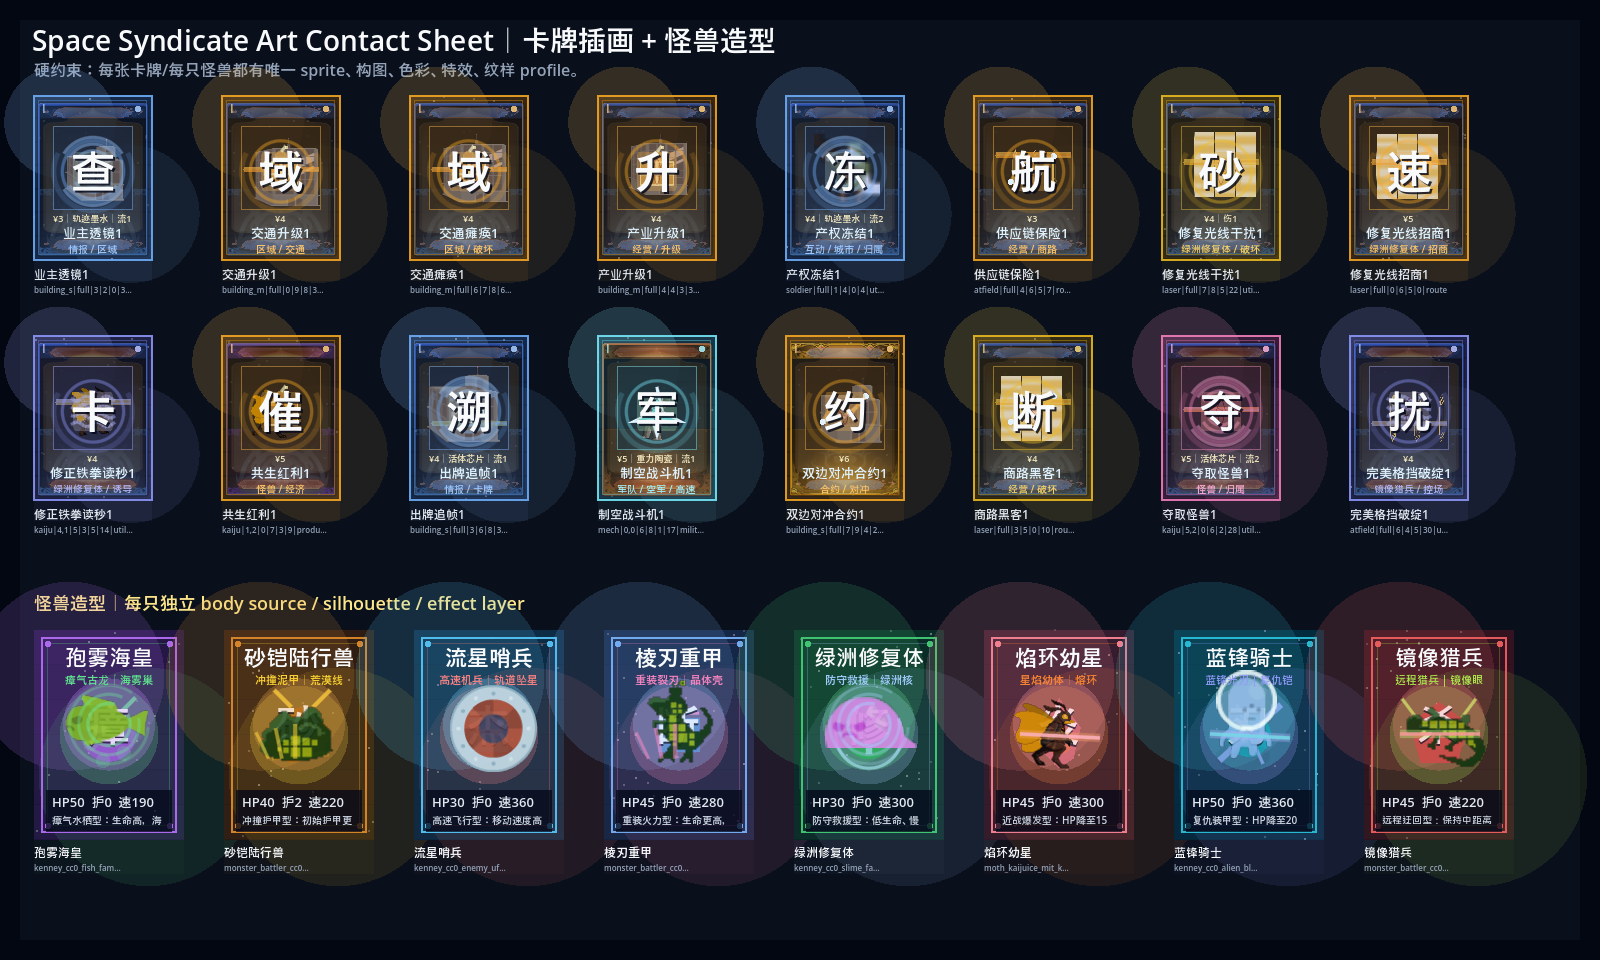
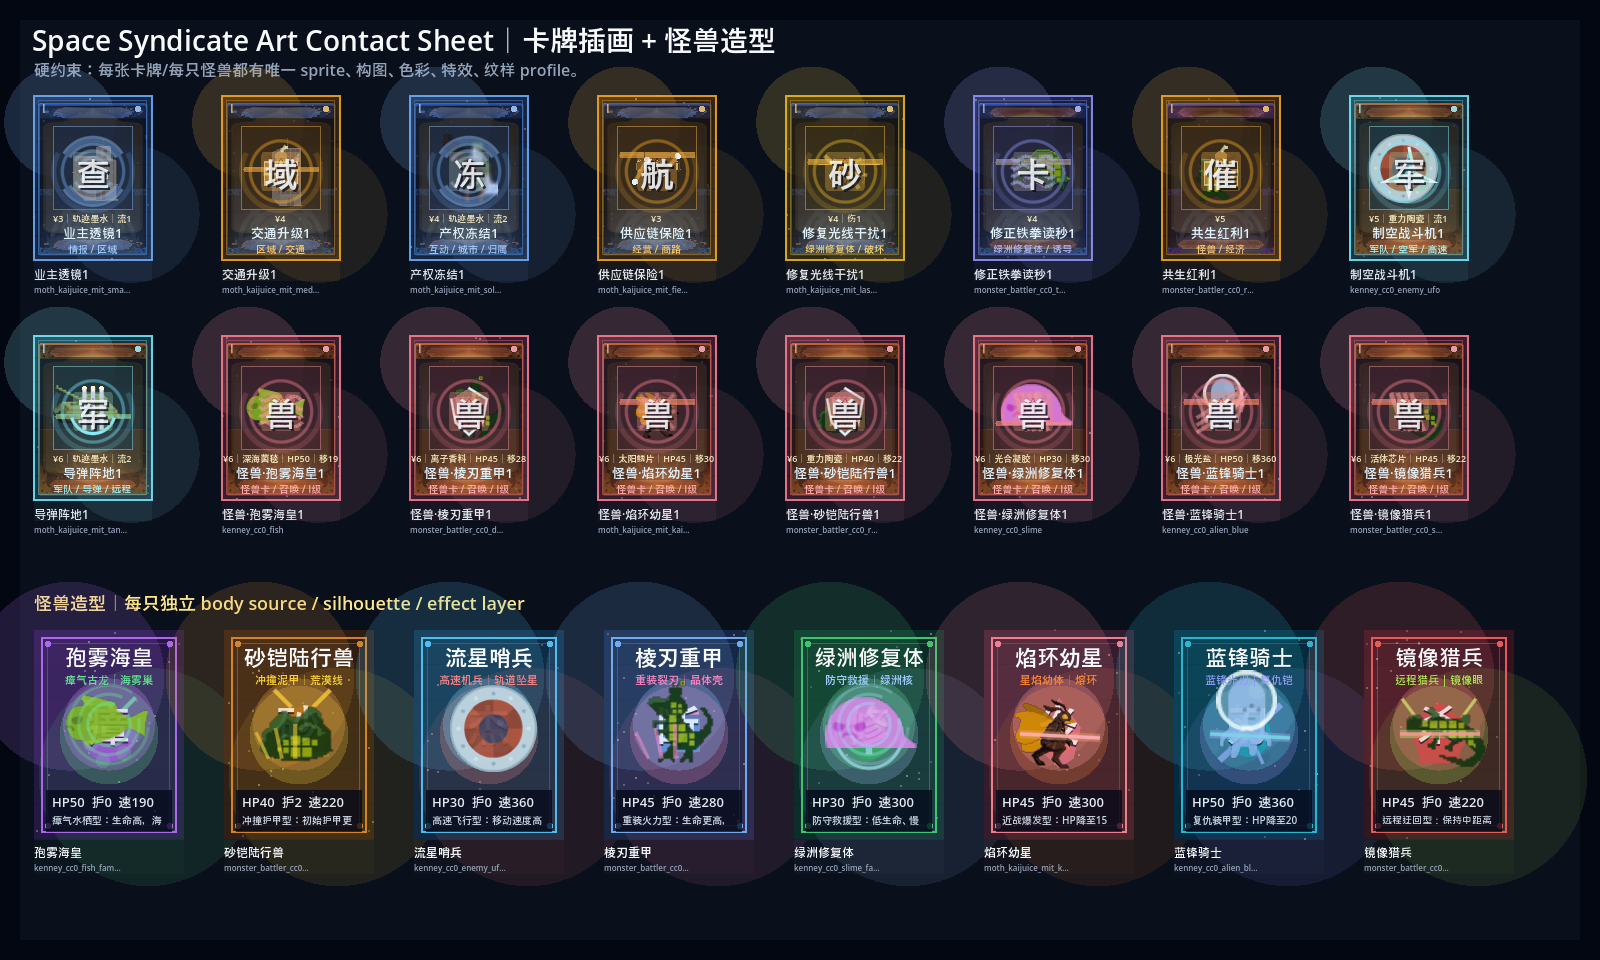
Add multi-source card illustration profiles

diff --git a/docs/development_log.md b/docs/development_log.md
@@ -6288,3 +6288,26 @@
 - `tests/layout_scene_smoke_test.gd` 通过。
 - `tests/smoke_test.gd --check-only` 通过。
 - `tests/smoke_test.gd` 完整通过。
+
+## 2026-07-03｜卡牌插画层改为多来源路线骨架
+
+- 继续推进“真人能一眼区分卡牌”的目标，不新增玩法规则：
+  - `CardArtView` 的中央插画层从单一 Moth Kaijuice sprite theme 升级为 `multi-source-open-card-illustrations-v2`。
+  - 每张卡牌 profile 现在输出 `visual_source_id`，和 `sprite_key / sprite_cell / layout / palette / effect / composition / motif` 一起组成唯一美术身份。
+  - 怪兽牌会优先匹配对应怪兽家族的占位美术来源：孢雾海皇用鱼类海洋身体、砂铠用岩石怪、流星用 UFO、棱刃用 dino、绿洲用 slime、焰环用 MOS/Moth、蓝锋用 alienBlue、镜像用 salamander。
+  - 军队、城市、合约、金融、情报、直接互动等卡继续按路线分配建筑、士兵、机甲、坦克、护盾、光线等来源。
+  - 卡面中央 glyph 缩小为路线标记，不再压住插画主体。
+- `tests/art_identity_gate_test.gd` 加严卡牌门槛：
+  - 全卡池每张卡必须有 `visual_source_id`。
+  - 全卡池至少覆盖 10 个 sprite family 和 10 个 visual source family。
+- `tests/art_contact_sheet_capture.gd` 的卡牌 contact sheet 改为优先挑选不同 `visual_source_id` 的样本，方便人工检查是否真的多来源，而不是只看同一类牌。
+
+### 本轮验证
+
+- `tests/art_identity_gate_test.gd` 通过。
+- `tests/art_contact_sheet_capture.gd` 有头通过，更新 `reports/art/art_card_monster_contact_sheet_1600x960.png` 和 `reports/art/art_monster_action_profiles_1600x960.png`。
+- `tests/visual_snapshot.gd` 通过。
+- `tests/ui_text_smoke_test.gd` 通过。
+- `tests/layout_scene_smoke_test.gd` 单独通过。
+- `tests/smoke_test.gd --check-only` 通过。
+- `tests/smoke_test.gd` 完整通过。

diff --git a/docs/art_production_contract.md b/docs/art_production_contract.md
@@ -20,6 +20,7 @@ Every player-facing card must have a unique visual identity. It is not enough to
 
 Each card illustration profile must include:
 
+- `visual_source_id`: the exact illustration source family used by this card face.
 - `sprite_key`: which imported/procedural illustration family is used.
 - `sprite_cell`: which sprite-sheet cell or texture region is used.
 - `layout_variant`: where the visual weight sits inside the card art area.
@@ -33,7 +34,8 @@ Acceptance:
 - The full card catalog must be audited, not only the cards that appear in one run.
 - Every audited card must have one unique visual profile key.
 - The key may be generated from the card name as a seed, but the key itself must be composed from visual dimensions, not the card name string.
-- At least six sprite/illustration families must be used across the current catalog.
+- Every card illustration profile must declare `visual_source_id`.
+- At least ten sprite/illustration families and ten visual source families must be used across the current catalog.
 - Card art must be visible in hand, region supply, card codex thumbnail, and card detail contexts because these all share `CardArtView`.
 
 ## Monster art hard standard
@@ -91,8 +93,8 @@ Current imported sources:
 
 - Night Patrol UI skin: `assets/third_party/night_patrol/`, CC BY-NC 4.0, temporary non-commercial prototype use.
 - Moth Kaijuice city/kaiju sprites: `assets/third_party/moth_kaijuice/`, MIT, temporary prototype illustration source. MOS/Moth kaiju body art is limited to one monster family in the current roster.
-- Monster Battler monster sprites: `assets/third_party/monster_battler/`, CC0, temporary monster body-art source.
-- Kenney CC0 sprites: `assets/third_party/kenney_cc0/`, CC0, temporary monster body-art source.
+- Monster Battler monster sprites: `assets/third_party/monster_battler/`, CC0, temporary monster body-art and card-illustration source.
+- Kenney CC0 sprites: `assets/third_party/kenney_cc0/`, CC0, temporary monster body-art and card-illustration source.
 
 Before any new copied asset becomes player-facing:
 
@@ -114,9 +116,10 @@ This test is allowed to read dev-only art audit helpers. It must not expose priv
 The gate fails if:
 
 - a card lacks a concrete sprite key/cell;
+- a card lacks a concrete `visual_source_id`;
 - a card lacks multi-axis visual fields;
 - two cards share the same visual profile key;
-- fewer than six card sprite families are used;
+- fewer than ten card sprite or visual source families are used;
 - a monster lacks a concrete sprite key/cell;
 - a monster lacks a concrete `visual_source_id`;
 - a monster lacks multi-axis visual fields;

diff --git a/docs/third_party_assets.md b/docs/third_party_assets.md
@@ -58,9 +58,9 @@ Imported for the current prototype:
 
 Current player-facing use:
 
-- `scripts/card_art_view.gd` theme `moth-kaijuice-mit-sprite-illustrations-v1` uses these sprites as the central card illustration layer.
+- `scripts/card_art_view.gd` theme `multi-source-open-card-illustrations-v2` uses these sprites as one of several central card illustration source families.
 - `scripts/monster_art_view.gd` theme `multi-source-open-monster-sprites-v2` may use the Moth Kaijuice kaiju body art for exactly one current monster family. The art identity gate rejects broad reuse of the MOS/Moth kaiju body across the roster.
-- The sprites are combined with card-specific sprite cells, composition variants, color variants, effects, and procedural motifs so the art gate can require one visual identity per card.
+- The sprites are combined with card-specific `visual_source_id`, sprite cells, composition variants, color variants, effects, and procedural motifs so the art gate can require one visual identity per card.
 
 Implementation note:
 
@@ -85,6 +85,7 @@ Imported for the current prototype:
 Current player-facing use:
 
 - `scripts/monster_art_view.gd` uses these sprites as distinct current monster body-art families, with one body family per assigned monster.
+- `scripts/card_art_view.gd` uses selected Monster Battler sprites as route-specific temporary card illustrations, especially monster-pressure and creature-linked card faces.
 - These CC0 sprites are temporary prototype monster anchors; later passes should replace them with owned or more coherent sci-fi kaiju art while preserving the one-monster-one-body-family gate.
 
 ## Kenney CC0 sprite reference pack
@@ -104,6 +105,7 @@ Imported for the current prototype:
 Current player-facing use:
 
 - `scripts/monster_art_view.gd` uses these sprites as distinct monster body-art families for ocean, alien, ooze/support, and orbital/flying silhouettes.
+- `scripts/card_art_view.gd` uses selected Kenney sprites as route-specific temporary card illustrations for ocean, alien, and orbital/air cards.
 - The Kenney assets are CC0 placeholders; keep source attribution in this document for traceability even though attribution is not required by the license.
 
 ## Terraforming Mars open-source reference

diff --git a/docs/card_visual_theme_contract.md b/docs/card_visual_theme_contract.md
@@ -7,7 +7,7 @@
 - 手牌、区域牌架、结算展示、图鉴缩略图、图鉴详情必须共享同一套卡面视觉语言。
 - `CardUI` / `CardFace` 负责卡牌框架：费用、名称、等级、插图区、关键词、效果和类型。
 - `CardUI` 必须有可见的类型符号锚点；玩家不能只靠读文字判断这张牌属于怪兽、军队、金融、商品或情报路线。
-- `CardArtView` 负责共享卡面美术：星空底、Moth Kaijuice 中央 sprite 插画、类型纹样、等级标记、Night Patrol backplate/frame/strip/sigil 参考层。
+- `CardArtView` 负责共享卡面美术：星空底、多来源中央 sprite 插画、类型纹样、等级标记、Night Patrol backplate/frame/strip/sigil 参考层。
 - Night Patrol 参考层必须肉眼可见：内板、边框、上下饰条和中心纹章共同形成临时卡面，而不是只留一层低透明度装饰。
 - 区域牌架左栏是 market-cell 小卡，必须用 `CardArtView` 做视觉锚；右栏购买预览再用 `CardFace` 展示更完整的读牌状态。
 
@@ -34,7 +34,7 @@
 ## 4. 开源素材边界
 
 - 当前原型可使用 `assets/third_party/night_patrol/ui/` 下的 frame、sigil、panel、button strip 作为非商业参考素材。
-- 当前原型可使用 `assets/third_party/moth_kaijuice/` 下的 MIT sprite 作为卡牌插画/怪兽造型临时素材。
+- 当前原型可使用 `assets/third_party/moth_kaijuice/` 下的 MIT sprite，以及 `assets/third_party/monster_battler/`、`assets/third_party/kenney_cc0/` 下的 CC0 sprite，作为卡牌插画/怪兽造型临时素材。
 - 代码必须把这些素材当作 optional reference layer：缺失时回退程序美术，不让游戏崩溃。
 - 商业发布前必须替换为自有素材或获得明确授权；详见 `docs/third_party_assets.md`。
 

diff --git a/docs/card_frame_spec.md b/docs/card_frame_spec.md
@@ -36,7 +36,7 @@
 - Right side: scan summary, keyword chips, three tactical-use cards, then facts.
 - Upgrade ladder: I-IV appears as four comparable panels with the same fields in the same order.
 - Hidden/internal fields, balance-budget jargon, and development history stay out of player-facing copy.
-- Art benchmark: reuse permissive/open-source card-frame and sprite references only through documented, attributed assets; current prototype baseline is the Night Patrol UI backplate/frame/strip/sigil set plus the MIT Moth Kaijuice sprite illustration layer and procedural route motifs.
+- Art benchmark: reuse permissive/open-source card-frame and sprite references only through documented, attributed assets; current prototype baseline is the Night Patrol UI backplate/frame/strip/sigil set plus a multi-source open sprite illustration layer and procedural route motifs.
 - Thumbnail atlas benchmark: card-codex thumbnails must render the same `CardArtView` visual language as hand/detail cards, then add scan chips and short effect text around it.
 
 ## TrackCard

diff --git a/docs/open_source_reference_notes.md b/docs/open_source_reference_notes.md
@@ -74,6 +74,6 @@ The next phase should copy benchmark structure first, then apply small Space Syn
 - `PlanetBoard`: copy the board-game/video-game stage composition before ornamentation: a square central play surface, thin side HUDs, and background space outside the projection boundary. Dense labels and callouts should appear only when zoom/focus justifies them.
 - Current menu/planet pass: borrowed the product structure from commercial board-game/digital-table references rather than external assets or GPL code: dominant planet visual, numbered right-side command tower, square central board, side orbit rails, and low-density map labels.
 - Current MiniCard pass: copied the common TCG/deckbuilder information hierarchy rather than card text density: hand cards show cost, short name, route/type, rank, a large art anchor, keyword chips, and a 2-3 line use summary; hover scales the card into a readable state while full rules stay in inspector/drawer/Codex.
-- Card/monster art baseline: the repository currently uses the attributed Night Patrol UI frame/sigil pack, MIT `Moth-Fried-Games/moth-kaijuice`, CC0 `victrolaface/monster_battler`, and CC0 Kenney sprite references. `CardArtView` still uses Moth Kaijuice as a temporary central card-illustration family with local composition/color/effect/motif variants. `MonsterArtView` now uses a multi-source body-art roster: Moth/MOS kaiju body art is limited to one monster family, and every current monster must have a distinct body sprite key plus `visual_source_id`. Copied files and licenses are logged in `docs/third_party_assets.md`.
+- Card/monster art baseline: the repository currently uses the attributed Night Patrol UI frame/sigil pack, MIT `Moth-Fried-Games/moth-kaijuice`, CC0 `victrolaface/monster_battler`, and CC0 Kenney sprite references. `CardArtView` now uses a multi-source temporary card-illustration layer with per-card `visual_source_id`, route-aware source selection, local composition/color/effect/motif variants, and a ten-source-family minimum gate. `MonsterArtView` uses a multi-source body-art roster: Moth/MOS kaiju body art is limited to one monster family, and every current monster must have a distinct body sprite key plus `visual_source_id`. Copied files and licenses are logged in `docs/third_party_assets.md`.
 - Art production gate: `docs/art_production_contract.md` and `tests/art_identity_gate_test.gd` now require every card, monster, and monster action slot to have a unique visual/motion profile before this phase can be considered complete. `tests/art_contact_sheet_capture.gd` generates review sheets under `reports/art/`.
 - Reference standard for future card UI/code study: `twdoor/simple-cards-v-2`, `chun92/card-framework`, and `insideout-andrew/simple-card-pile-ui` are suitable Godot card layout/interaction references; adapt structure and interaction feel, not unvetted art or text.